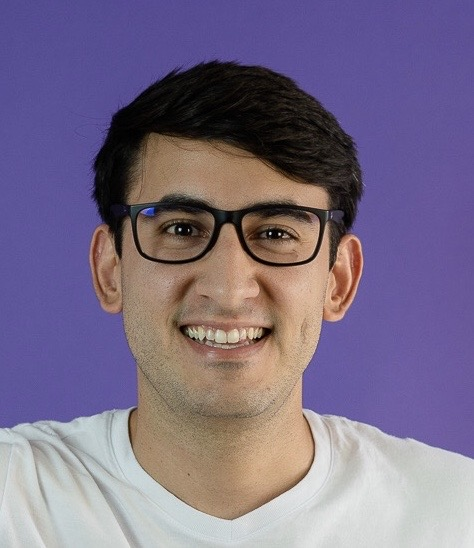
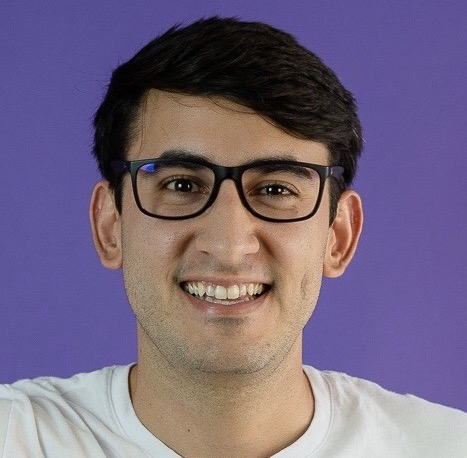
Change font and picture style

Changed region(s): [[0.0, 0.0306, 1.0, 1.0], [0.0899, 0.9782, 0.1199, 1.0]]

diff --git a/index.html b/index.html
@@ -4,7 +4,18 @@
         <title>Pedro's portfolio</title>
         <meta charset="utf-8">
         <style>
-            
+            body {
+                background-color: #bfc0c0;
+            }
+            h1 {
+                font-family: Helvetica,sans-serif;
+            }
+            p {
+                font-family: Arial, Helvetica, sans-serif;
+            }
+            .profile-picture {
+                border-radius: 100%;
+            }
         </style>
     </head>
     <body>
@@ -16,7 +27,7 @@
                     <li><a href="#blogs-i-love">Blogs I love</a></li>
                 </ul>
             <h2 id="about-me">About me</h2>
-                <img src="/images/pedro_calado.jpg" alt="Pedro's picture" width="500px">
+                <img src="/images/pedro_calado.jpg" alt="Pedro's picture" width="200px" class="profile-picture">
                 <p><em><strong>Brazilian</strong>, 28 years old, Belo Horizonte, Brazil</em></p>
             <h2 id="skills">Skills</h2>
                 <p>
